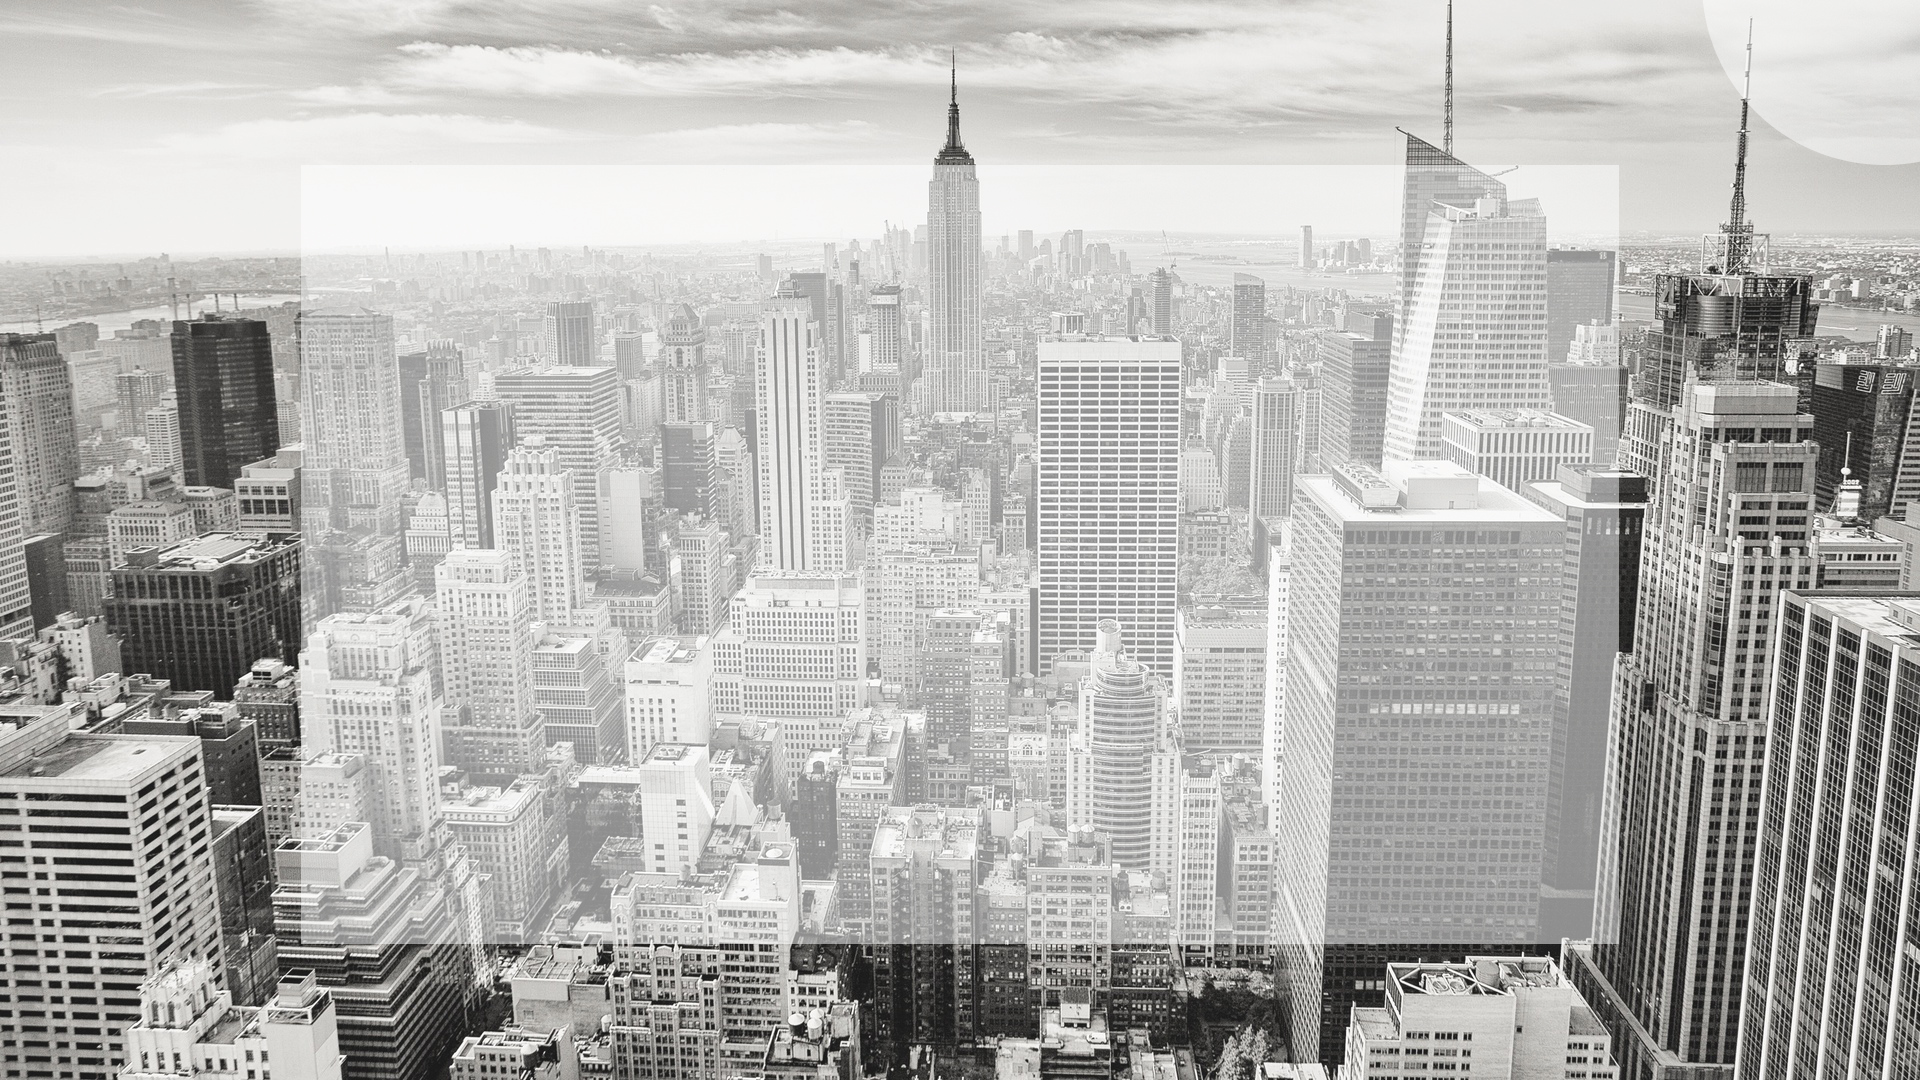
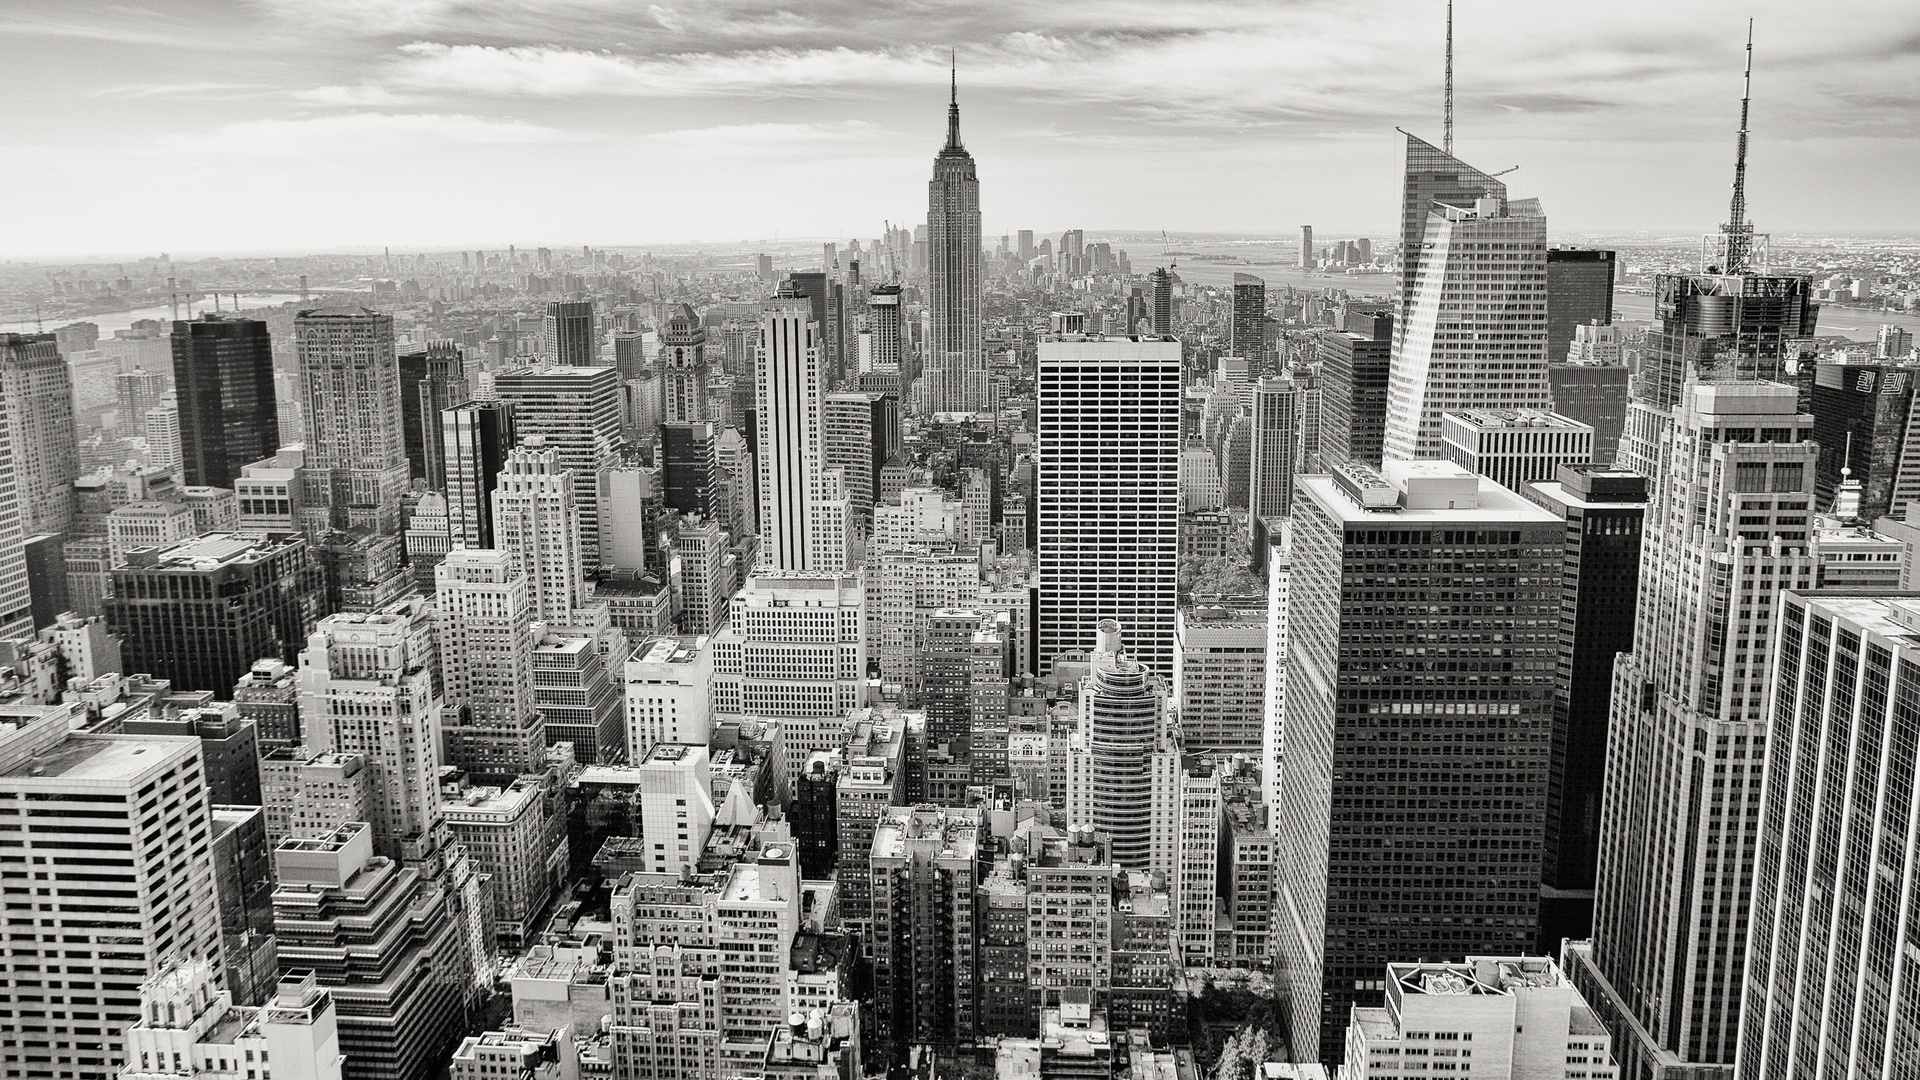
-new

diff --git a/styles.css b/styles.css
@@ -12,17 +12,18 @@ body{
 .banner {
     width: 100%;
     height:100vh;
-background-image: linear-gradient(rgba(0,0,0,0.25),rgba(0,0,0,0.25)),url(./assets/background.jpg);
+background-image: linear-gradient(rgba(0,0,0,0.7),rgba(0,0,0,0.7)),url(./assets/background.jpg);
 background-size: cover;
 background-position: center;
 }
 .navbar{
-    width: 85%;
-    margin: auto;
-    padding: 35px 0;
     display: flex;
     align-items: center;
     justify-content: space-between;
+    width: 85%;
+    margin: auto;
+    padding: 35px 0;
+
 }
 .logo{
     width: 100px;
@@ -52,25 +53,36 @@ background-position: center;
 .navbar ul li:hover::after{
 width: 100%;
 }
+/* part2 */
 .content{
-    width: 100%;
-    position: absolute;
-    top: 50%;
-    transform: translateY(-50%);
+    background-color: rgba(255,255,255,0.4);
+    width: 80%;
+    margin: auto;
+    padding: 20px;
+    position: relative;
+    z-index: 0;
     text-align: center;
     color: #141414;
+    height: 60vh;
+    border-radius: 16px;
 }
 .content h1{
     font-size:70px ;
-    padding-top:80px ;
+    padding:30px ;
     color: #134B70;
+    
 }
 .content p{
-    font-weight: 200;
-    line-height: 25px;
-    color: #fff;
+    font-size:20px;
+    font-weight: 400;
+    line-height: 30px;
+    color:#fff;
+    width: 80%;
+    margin: auto;
+    padding: 20px;
 }
 button{
+    font-size: 20px;
     width: 200;
     padding: 15px 0;
     text-align: center;

diff --git a/index.html b/index.html
@@ -19,7 +19,7 @@
       </div>
       <div class="content">
         <h1>Welcome to m-stadt</h1>
-        <p>
+        <p >
           Discover the heart of new york with our premium services tailored to
           meet all your needs. From transportation and logistics to event
           planning and tourism, we are here to make your experience in new york
